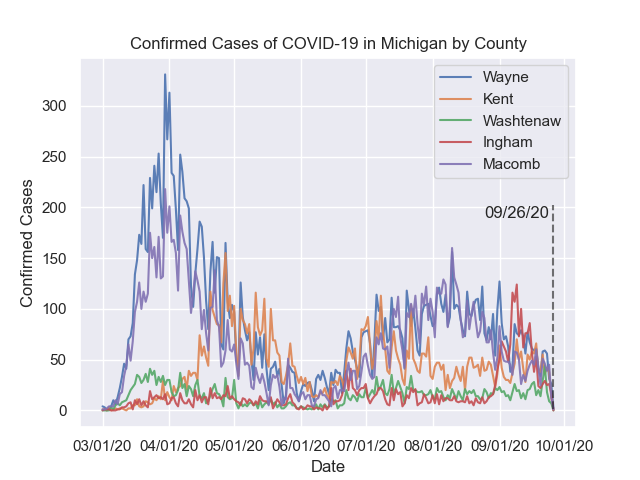
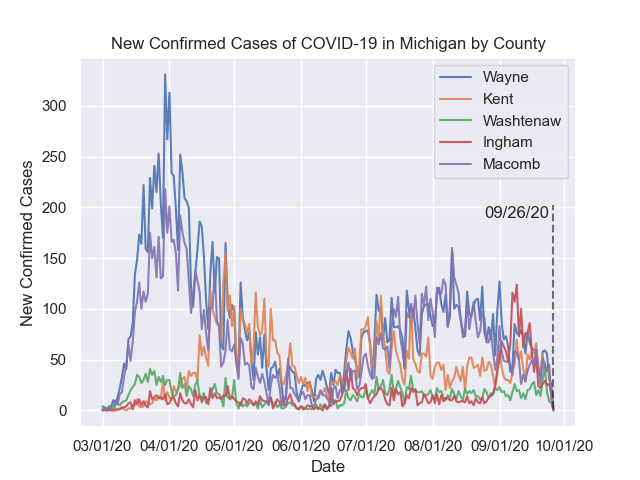
small tweaks to covid data presentation

Changed region(s): [[0.1562, 0.0625, 0.8438, 0.125], [0.0312, 0.3438, 0.0625, 0.6875]]

diff --git a/assets/update.py b/assets/update.py
@@ -124,11 +124,17 @@ class CSE231GitHub(object):
 
         stat_container = soup.find('section', attrs={'class':'stat-container'}).find_all('p')
 
+        as_of = ''
+        for p_tag in stat_container:
+            if "Updated" in p_tag.text:
+                as_of = p_tag.text[p_tag.text.find(' ') + 1:]
+
         covid_data = ''
         covid_data += '- **Total Confirmed Cases:** {}\n'.format(stat_container[1].text.replace('*', ''))
         covid_data += '- **Total COVID-19 Deaths:** {}\n'.format(stat_container[3].text.replace('*', ''))
-        covid_data += '- **Daily Confirmed Cases:** {}\n'.format(stat_container[5].text.replace('*', ''))
-        covid_data += '- **Daily COVID-19 Deaths:** {}'.format(stat_container[7].text.replace('*', ''))
+        covid_data += '- **New Confirmed Cases:** {}\n'.format(stat_container[5].text.replace('*', ''))
+        covid_data += '- **New COVID-19 Deaths:** {}\n\n'.format(stat_container[7].text.replace('*', ''))
+        covid_data += 'As of: {}'.format(as_of)
     
         readme_text = self.__course_info_replace(
             self.readme_temp.replace(':schedule:', schedule_html).replace(':progressbar:', bar_html)\
@@ -484,9 +490,9 @@ class CSE231GitHub(object):
         ax.text(x=d2 - timedelta(2), y=190, s=d2.strftime('%m/%d/%y'), ha='right')
 
         ax.xaxis.set_major_formatter(DateFormatter('%m/%d/%y'))
-        ax.set_title('Confirmed Cases of COVID-19 in Michigan by County')
+        ax.set_title('New Confirmed Cases of COVID-19 in Michigan by County')
         ax.set_xlabel('Date')
-        ax.set_ylabel('Confirmed Cases')
+        ax.set_ylabel('New Confirmed Cases')
         ax.legend()
 
         plt.savefig('assets/images/covid_data.png')

diff --git a/README.md b/README.md
@@ -49,7 +49,7 @@ Your co-pilot on this expedition through CSE231 will be the course schedule, whi
 
 ## Course Schedule
 
-Last Refresh: 09/26/2020 04:56 PM EST
+Last Refresh: 09/26/2020 05:10 PM EST
 
 The assignments listed on the schedule have links to the corresponding website they are hosted on. Links to Mimir and D2L assignments are not direct because a login is required. You can hover over the assignment's text to see its precise due date (sorry mobile users).
 
@@ -307,15 +307,13 @@ Stay safe! These trackers are updated on a daily basis, and are scraped directly
 
 - **Total Confirmed Cases:** 121,427
 - **Total COVID-19 Deaths:** 6,723
-- **Daily Confirmed Cases:** 901
-- **Daily COVID-19 Deaths:** 15
+- **New Confirmed Cases:** 901
+- **New COVID-19 Deaths:** 15
 
-Last Refresh: 09/26/2020 04:56 PM EST
+As of: 9/26/2020
 
 <div align="center"><img src="assets/images/covid_data.png"></img></div>
 
 [View Source](https://www.michigan.gov/coronavirus/0,9753,7-406-98163_98173---,00.html)
 
 **Counties were chosen based on the most populous [cities in Michigan](https://en.wikipedia.org/wiki/List_of_municipalities_in_Michigan).*
-
-**Graph may be slightly behind since the State of Michigan updates their spreadsheets after all cases have been totalled.*

diff --git a/assets/templates/readme_temp.md b/assets/templates/readme_temp.md
@@ -145,12 +145,8 @@ Stay safe! These trackers are updated on a daily basis, and are scraped directly
 
 :covid_data:
 
-Last Refresh: :refresh:
-
 <div align="center"><img src="assets/images/covid_data.png"></img></div>
 
 [View Source](https://www.michigan.gov/coronavirus/0,9753,7-406-98163_98173---,00.html)
 
 **Counties were chosen based on the most populous [cities in Michigan](https://en.wikipedia.org/wiki/List_of_municipalities_in_Michigan).*
-
-**Graph may be slightly behind since the State of Michigan updates their spreadsheets after all cases have been totalled.*
